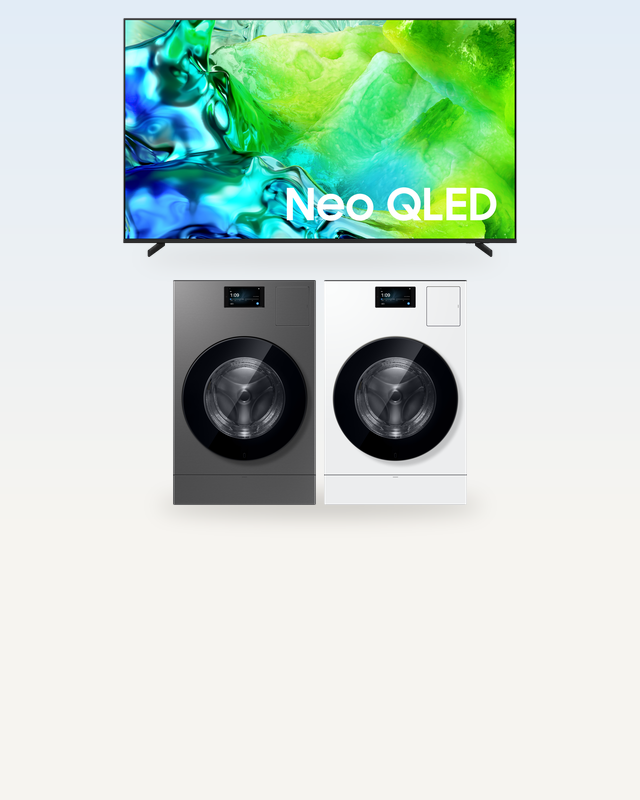
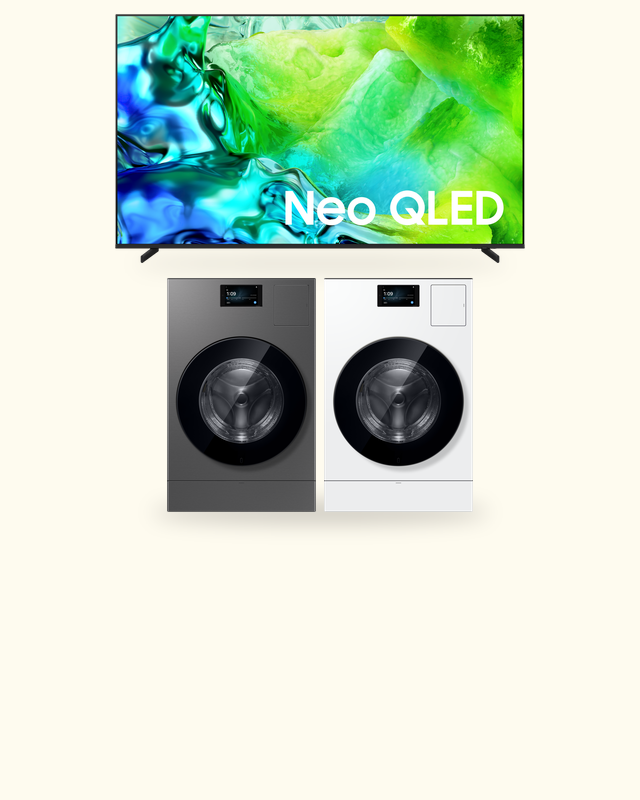
deploy: 메인 비주얼 AI 콤보 PC·모바일 — 크림 배경, 공식 사진, 실제 비율 (2026-11-03)

Changed region(s): [[0.0, 0.0, 1.0, 0.3438], [0.25, 0.3438, 0.75, 0.6562]]

diff --git a/deploy/banner/make_pc_aicombo.py b/deploy/banner/make_pc_aicombo.py
@@ -1,0 +1,24 @@
+# -*- coding: utf-8 -*-
+# PC 메인 비주얼 1916x821 — 삼성닷컴 공식 85" Neo QLED + AI 콤보 2대, 실제 비율, 겹침 없음.
+# PC 문구(날짜·제목·버튼)는 왼쪽 0~900px 에 얹히므로 상품은 오른쪽 1150~1850 에 둔다. 배경은 와인·상품권 장과 같은 크림색.
+from PIL import Image, ImageFilter, ImageDraw
+W, H = 1916, 821
+TV_MM, COMBO_MM, SIDE_MM = 1891, 686, 36
+def load(p):
+    im = Image.open(p).convert('RGBA'); return im.crop(im.getbbox())
+tv, ga, wh = load('TV80.png'), load('AHS.png'), load('AHW.png')
+s = 560 / TV_MM                                   # TV 가로 560px
+def rs(im, mm): w = round(mm * s); return im.resize((w, round(im.height * w / im.width)), Image.LANCZOS)
+tv, ga, wh = rs(tv, TV_MM), rs(ga, COMBO_MM), rs(wh, COMBO_MM); side = round(SIDE_MM * s)
+bg = Image.new('RGB', (W, H), (254, 251, 239))
+def shadow(img, x0, x1, y, h, a):
+    sh = Image.new('L', (W, H), 0); ImageDraw.Draw(sh).ellipse((x0, y - h // 2, x1, y + h // 2), fill=a)
+    return Image.composite(Image.new('RGB', (W, H), (205, 198, 182)), img, sh.filter(ImageFilter.GaussianBlur(12)))
+cx_center = 1500
+tx = cx_center - tv.width // 2; ty = 62
+total = ga.width + side + wh.width; cx = cx_center - total // 2; cy = ty + tv.height + 40
+bg = shadow(bg, tx + 30, tx + tv.width - 30, ty + tv.height, 14, 90)
+bg = shadow(bg, cx - 16, cx + total + 16, cy + ga.height, 24, 140)
+bg.paste(tv, (tx, ty), tv); bg.paste(ga, (cx, cy), ga); bg.paste(wh, (cx + ga.width + side, cy), wh)
+bg.save('pc_visual_aicombo_1103.png', optimize=True)
+print('TV %dx%d @%d,%d | 세탁기 %dx%d @%d,%d → 바닥 %d' % (tv.width, tv.height, tx, ty, ga.width, ga.height, cx, cy, cy + ga.height))

diff --git a/deploy/banner/make_m_aicombo_1103.py b/deploy/banner/make_m_aicombo_1103.py
@@ -5,8 +5,8 @@
 # 아래 약 34%(528px~)는 날짜·제목·버튼 문구가 덮으므로 상품은 y 18~505 안에 둔다
 from PIL import Image, ImageFilter, ImageDraw
 W, H = 640, 800
-TOP, BOTTOM = 18, 505
-TV_MM, COMBO_MM, GAP_MM, SIDE_MM = 1891, 686, 110, 40     # GAP: TV와 세탁기 사이, SIDE: 세탁기 두 대 사이
+TOP, BOTTOM = 14, 512
+TV_MM, COMBO_MM, GAP_MM, SIDE_MM = 1891, 686, 70, 36     # GAP: TV와 세탁기 사이, SIDE: 세탁기 두 대 사이
 def load(p):
     im = Image.open(p).convert('RGBA'); return im.crop(im.getbbox())
 tv, ga, wh = load('TV80.png'), load('AHS.png'), load('AHW.png')
@@ -18,9 +18,8 @@ def rs(im, mm): w = round(mm * s); return im.resize((w, round(im.height * w / im
 tv, ga, wh = rs(tv, TV_MM), rs(ga, COMBO_MM), rs(wh, COMBO_MM)
 side = round(SIDE_MM * s)
 # 배경: 밝은 회백 → 아래 바닥색, 위쪽에 아주 옅은 하늘빛
-bg = Image.new('RGB', (W, H), (246, 244, 240))
-top = Image.new('RGB', (W, H), (226, 236, 246))
-bg = Image.composite(bg, top, Image.linear_gradient('L').resize((W, H)).point(lambda v: min(255, int(v * 1.5))))
+# 배경: 와인·상품권 장과 같은 크림색(254,251,239) — 메인 비주얼 다른 장들과 톤을 맞춘다
+bg = Image.new('RGB', (W, H), (254, 251, 239))
 def shadow(img, x0, x1, y, h=18, a=120):
     sh = Image.new('L', (W, H), 0); ImageDraw.Draw(sh).ellipse((x0, y - h // 2, x1, y + h // 2), fill=a)
     sh = sh.filter(ImageFilter.GaussianBlur(10))
